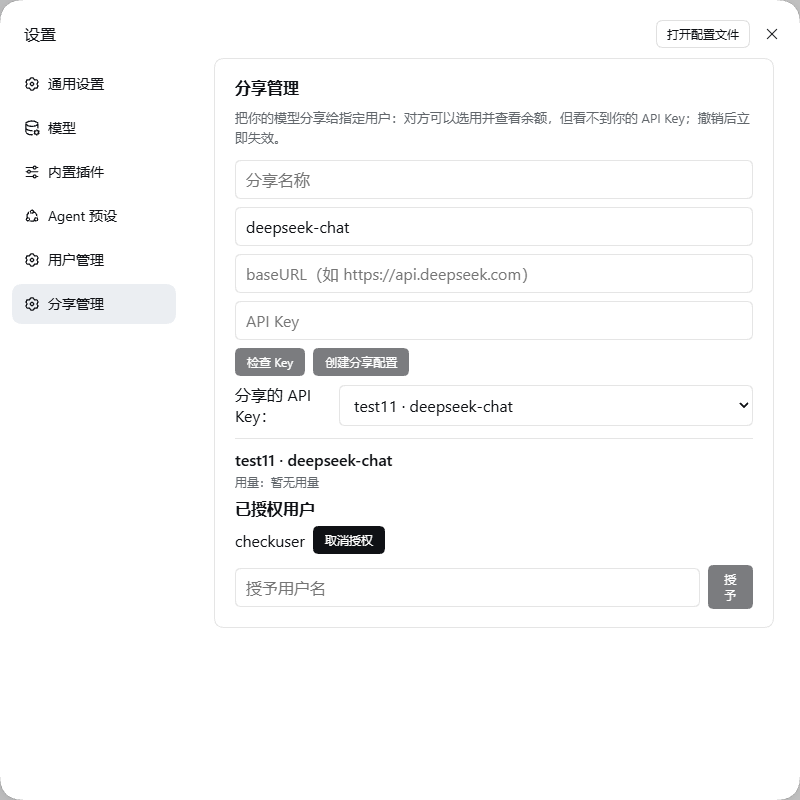
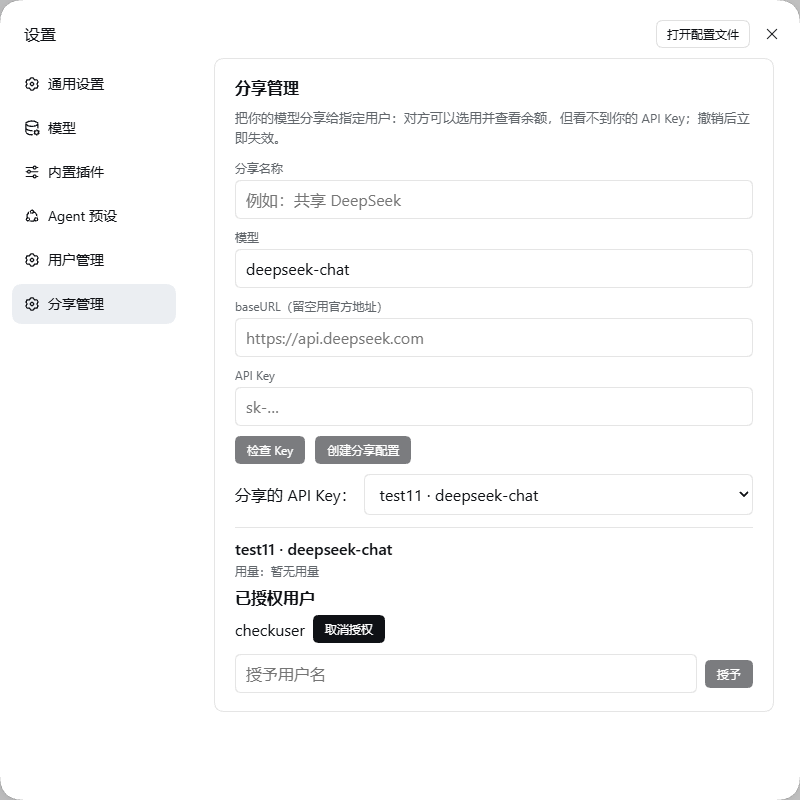
fix(ui): tidy the share form and stop buttons wrapping, then re-shoot
Reading the screenshots turned up two layout faults on 分享管理 that the tests could not see: the
create form used placeholders instead of the labels the rest of the panel now uses, and the 授予
button next to the grantee input broke its text onto two lines (pairing with a label that wrapped
too). The form is now four labelled fields in one column with its buttons in an actions row, matching
模型, and buttons carry white-space:nowrap while the picker label no longer wraps.

Screenshots re-shot for the two affected pages. While checking, verified with the DOM rather than by
eye that 解锁 is genuinely disabled while its password field is empty (and enabled once something is
typed) and that it sits on the same row as 查余额 -- both hold, with identical row tops.

Changed region(s): [[0.2812, 0.1875, 0.6562, 0.875], [0.875, 0.6875, 0.9688, 0.7812], [0.875, 0.8125, 0.9688, 0.875]]

diff --git a/src/client.ts b/src/client.ts
@@ -216,7 +216,7 @@
 			'.dshua table{border-collapse:collapse;width:100%;margin:4px 0}',
 			'.dshua th,.dshua td{text-align:left;padding:6px 10px;border-bottom:1px solid var(--dsw-alias-border-l2);font-size:13px}',
 			'.dshua th{color:var(--dsw-alias-label-secondary);font-weight:600}',
-			'.dshua button{font-size:12px;padding:6px 12px}',
+			'.dshua button{font-size:12px;padding:6px 12px;white-space:nowrap}',
 			'.dshua .toolbar{display:flex;flex-wrap:wrap;gap:5px 10px;align-items:flex-end}',
 			'.dshua .actions{display:flex;flex-wrap:wrap;gap:5px 10px;margin:10px 0 0}',
 			'.dshua .field{display:flex;flex-direction:column;margin:0 0 10px;min-width:160px}',
@@ -1257,12 +1257,21 @@
 				children.push(React.createElement('div', { style: { color: 'var(--dsw-alias-label-error, #ff6b6b)', marginBottom: 10 } }, state.error))
 			}
 
-			// 创建表单：label / 模型 / baseURL / Key + 检查 Key
-			children.push(React.createElement('div', { key: 'new', style: { display: 'flex', gap: 8, flexWrap: 'wrap', alignItems: 'center', marginBottom: 8 } },
-				React.createElement('input', { placeholder: '分享名称', value: form.label, onChange: function (e: any) { setForm({ ...form, label: e.target.value }) } }),
-				React.createElement('input', { placeholder: '模型', value: form.model, onChange: function (e: any) { setForm({ ...form, model: e.target.value }) } }),
-				React.createElement('input', { placeholder: 'baseURL（如 https://api.deepseek.com）', value: form.baseUrl, onChange: function (e: any) { setForm({ ...form, baseUrl: e.target.value }) } }),
-				React.createElement('input', { type: 'password', placeholder: 'API Key', value: form.apiKey, onChange: function (e: any) { setForm({ ...form, apiKey: e.target.value }) } }),
+			// 创建表单：与【模型】页同一套约定（label + 输入框一列一行，按钮单独一排）
+			children.push(React.createElement('div', { key: 'new', className: 'fields' },
+				React.createElement('div', { className: 'field' },
+					React.createElement('label', null, '分享名称'),
+					React.createElement('input', { placeholder: '例如：共享 DeepSeek', value: form.label, onChange: function (e: any) { setForm({ ...form, label: e.target.value }) } })),
+				React.createElement('div', { className: 'field' },
+					React.createElement('label', null, '模型'),
+					React.createElement('input', { placeholder: 'deepseek-chat', value: form.model, onChange: function (e: any) { setForm({ ...form, model: e.target.value }) } })),
+				React.createElement('div', { className: 'field' },
+					React.createElement('label', null, 'baseURL（留空用官方地址）'),
+					React.createElement('input', { placeholder: 'https://api.deepseek.com', value: form.baseUrl, onChange: function (e: any) { setForm({ ...form, baseUrl: e.target.value }) } })),
+				React.createElement('div', { className: 'field' },
+					React.createElement('label', null, 'API Key'),
+					React.createElement('input', { type: 'password', placeholder: 'sk-…', value: form.apiKey, onChange: function (e: any) { setForm({ ...form, apiKey: e.target.value }) } }))))
+			children.push(React.createElement('div', { key: 'new-actions', className: 'actions', style: { margin: '0 0 10px' } },
 				React.createElement('button', { onClick: checkKey, disabled: form.apiKey === '' || keyTest.busy }, keyTest.busy ? '检查中…' : '检查 Key'),
 				React.createElement('button', {
 					disabled: form.model === '' || form.apiKey === '',
@@ -1279,7 +1288,7 @@
 			// 下拉菜单：所有分享 Key 收进一个 select，避免大量条目挤占空间
 			if (state.shared.length > 0) {
 				children.push(React.createElement('div', { key: 'picker', style: { display: 'flex', gap: 8, alignItems: 'center', margin: '6px 0 12px' } },
-					React.createElement('span', null, '分享的 API Key：'),
+					React.createElement('span', { style: { whiteSpace: 'nowrap' } }, '分享的 API Key：'),
 					React.createElement('select', {
 						value: state.selected,
 						'aria-label': '选择分享的 API Key',

diff --git a/lib/client.js b/lib/client.js
@@ -869,7 +869,7 @@ var AUTH_CSS = [
   ".dshua table{border-collapse:collapse;width:100%;margin:4px 0}",
   ".dshua th,.dshua td{text-align:left;padding:6px 10px;border-bottom:1px solid var(--dsw-alias-border-l2);font-size:13px}",
   ".dshua th{color:var(--dsw-alias-label-secondary);font-weight:600}",
-  ".dshua button{font-size:12px;padding:6px 12px}",
+  ".dshua button{font-size:12px;padding:6px 12px;white-space:nowrap}",
   ".dshua .toolbar{display:flex;flex-wrap:wrap;gap:5px 10px;align-items:flex-end}",
   ".dshua .actions{display:flex;flex-wrap:wrap;gap:5px 10px;margin:10px 0 0}",
   ".dshua .field{display:flex;flex-direction:column;margin:0 0 10px;min-width:160px}",
@@ -2229,19 +2229,43 @@ function SharesPage() {
   }
   children.push(React.createElement(
     "div",
-    { key: "new", style: { display: "flex", gap: 8, flexWrap: "wrap", alignItems: "center", marginBottom: 8 } },
-    React.createElement("input", { placeholder: "分享名称", value: form.label, onChange: function(e) {
-      setForm({ ...form, label: e.target.value });
-    } }),
-    React.createElement("input", { placeholder: "模型", value: form.model, onChange: function(e) {
-      setForm({ ...form, model: e.target.value });
-    } }),
-    React.createElement("input", { placeholder: "baseURL（如 https://api.deepseek.com）", value: form.baseUrl, onChange: function(e) {
-      setForm({ ...form, baseUrl: e.target.value });
-    } }),
-    React.createElement("input", { type: "password", placeholder: "API Key", value: form.apiKey, onChange: function(e) {
-      setForm({ ...form, apiKey: e.target.value });
-    } }),
+    { key: "new", className: "fields" },
+    React.createElement(
+      "div",
+      { className: "field" },
+      React.createElement("label", null, "分享名称"),
+      React.createElement("input", { placeholder: "例如：共享 DeepSeek", value: form.label, onChange: function(e) {
+        setForm({ ...form, label: e.target.value });
+      } })
+    ),
+    React.createElement(
+      "div",
+      { className: "field" },
+      React.createElement("label", null, "模型"),
+      React.createElement("input", { placeholder: "deepseek-chat", value: form.model, onChange: function(e) {
+        setForm({ ...form, model: e.target.value });
+      } })
+    ),
+    React.createElement(
+      "div",
+      { className: "field" },
+      React.createElement("label", null, "baseURL（留空用官方地址）"),
+      React.createElement("input", { placeholder: "https://api.deepseek.com", value: form.baseUrl, onChange: function(e) {
+        setForm({ ...form, baseUrl: e.target.value });
+      } })
+    ),
+    React.createElement(
+      "div",
+      { className: "field" },
+      React.createElement("label", null, "API Key"),
+      React.createElement("input", { type: "password", placeholder: "sk-…", value: form.apiKey, onChange: function(e) {
+        setForm({ ...form, apiKey: e.target.value });
+      } })
+    )
+  ));
+  children.push(React.createElement(
+    "div",
+    { key: "new-actions", className: "actions", style: { margin: "0 0 10px" } },
     React.createElement("button", { onClick: checkKey, disabled: form.apiKey === "" || keyTest.busy }, keyTest.busy ? "检查中…" : "检查 Key"),
     React.createElement("button", {
       disabled: form.model === "" || form.apiKey === "",
@@ -2259,7 +2283,7 @@ function SharesPage() {
     children.push(React.createElement(
       "div",
       { key: "picker", style: { display: "flex", gap: 8, alignItems: "center", margin: "6px 0 12px" } },
-      React.createElement("span", null, "分享的 API Key："),
+      React.createElement("span", { style: { whiteSpace: "nowrap" } }, "分享的 API Key："),
       React.createElement("select", {
         value: state.selected,
         "aria-label": "选择分享的 API Key",
